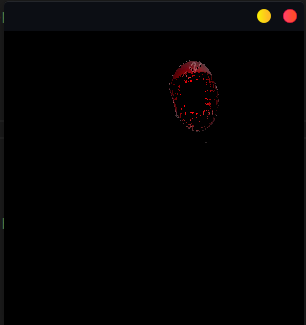
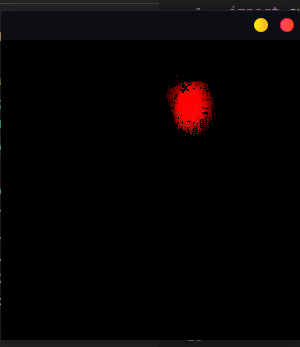
Major bug fix

diff --git a/outlineOfKIngCobra_dinosaur_dolphin.py b/outlineOfKIngCobra_dinosaur_dolphin.py
@@ -1,0 +1,25 @@
+import cv2
+import numpy as np
+import matplotlib.pyplot as plt
+
+
+
+#Loading the image and converting it into grayscale
+king = cv2.imread('dolphin.png')
+king=cv2.resize(king,(300,300))
+
+gray=cv2.cvtColor(king,cv2.COLOR_BGR2GRAY)
+#computr median of pixel intensities
+v = np.median(gray)
+lower = int(max(0, (1.0 - 0.43) * v))
+upper = int(min(255, (1.0 + 0.43) * v))
+
+gaussian = cv2.GaussianBlur(gray.copy(), (7,7), 0)
+edge = cv2.Canny(gaussian, lower,upper)
+#cv2.imshow('Edged Dinosaur',edge)
+#cv2.waitKey(0)
+#cv2.destroyAllWindows()
+cv2.imshow('',edge)
+cv2.waitKey(0)
+
+cv2.destroyAllWindows()

diff --git a/getRedColorFromTrafficSignal.py b/getRedColorFromTrafficSignal.py
@@ -8,8 +8,8 @@ hsv = cv2.cvtColor(filter,cv2.COLOR_BGR2HSV)
 cv2.imshow('',hsv)
 cv2.waitKey(0)   
 # Threshold of red in HSV space 
-lower_blue = np.array([169, 10, 40])         
-upper_blue = np.array([189, 255, 255])      
+lower_blue = np.array([0, 225, 15])         
+upper_blue = np.array([10, 350, 255])      
  # preparing the mask to overlay 
 mask = cv2.inRange(hsv, lower_blue, upper_blue)
 
